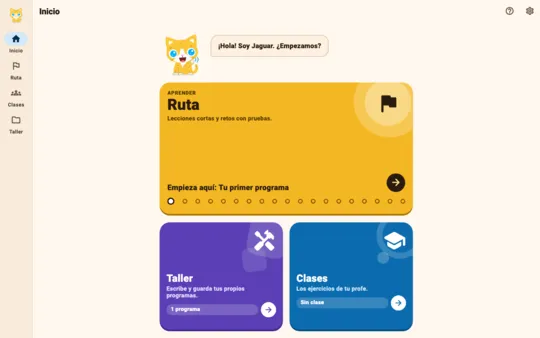
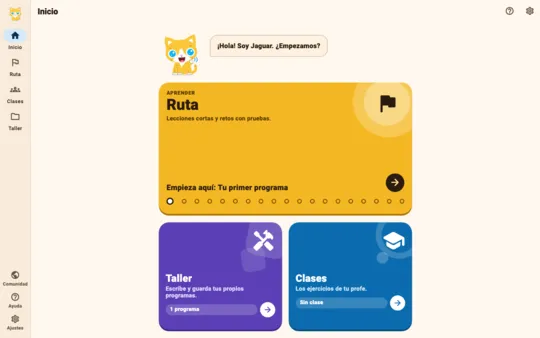
Movidas a la barra lateral las herramientas de Ajustes, Ayuda, Comunidad y cuenta, y quitado el menú hamburguesa

diff --git a/apps/jaguar/lib/src/workspace/rooms.dart b/apps/jaguar/lib/src/workspace/rooms.dart
@@ -132,13 +132,15 @@ class RoomsScaffold extends StatelessWidget {
               )
             : Text(room == Room.home ? 'Inicio' : _titles[room]!),
         actions: [
-          if (room == Room.home)
+          // On a wide screen the rail has these.
+          if (room == Room.home && !_isWide(context))
             IconButton(
               tooltip: 'Cómo funciona Jaguar Code',
               icon: const Icon(Icons.help_outline_rounded),
               onPressed: actions.onOpenGuide,
             ),
-          if (room == Room.home)
+          // On a wide screen the rail has these.
+          if (room == Room.home && !_isWide(context))
             IconButton(
               tooltip: 'Ajustes',
               icon: const Icon(Icons.settings_outlined),
@@ -1949,10 +1951,28 @@ class _RoomCard extends StatelessWidget {
 /// The rooms as a rail at the left, for a computer or a tablet: always there,
 /// like the activity bar of a code editor.
 class RoomsRail extends StatelessWidget {
-  const RoomsRail({super.key, required this.room, required this.onRoom});
+  const RoomsRail({
+    super.key,
+    required this.room,
+    required this.onRoom,
+    required this.onSettings,
+    required this.onGuide,
+    this.onCommunity,
+    this.onAccount,
+    this.accountLabel = 'Entrar',
+    this.signedIn = false,
+  });
 
   final Room room;
   final ValueChanged<Room> onRoom;
+
+  /// The tools that are not a place: at the bottom of the rail.
+  final VoidCallback onSettings;
+  final VoidCallback onGuide;
+  final VoidCallback? onCommunity;
+  final VoidCallback? onAccount;
+  final String accountLabel;
+  final bool signedIn;
 
   @override
   Widget build(BuildContext context) {
@@ -1962,10 +1982,32 @@ class RoomsRail extends StatelessWidget {
       onDestinationSelected: (index) => onRoom(Room.values[index]),
       labelType: NavigationRailLabelType.all,
       backgroundColor: scheme.surfaceContainer,
-      minWidth: 76,
+      minWidth: 72,
       leading: Padding(
-        padding: const EdgeInsets.only(top: 10, bottom: 14),
-        child: Image.asset('assets/images/mascota.png', width: 36, height: 36, excludeFromSemantics: true),
+        padding: const EdgeInsets.only(top: 8, bottom: 10),
+        child: Image.asset('assets/images/mascota.png', width: 34, height: 34, excludeFromSemantics: true),
+      ),
+      trailing: Expanded(
+        child: Align(
+          alignment: Alignment.bottomCenter,
+          child: Padding(
+            padding: const EdgeInsets.only(bottom: 10),
+            child: Column(
+              mainAxisSize: MainAxisSize.min,
+              children: [
+                if (onCommunity != null) _RailTool(icon: Icons.public, label: 'Comunidad', onTap: onCommunity!),
+                if (onAccount != null)
+                  _RailTool(
+                    icon: signedIn ? Icons.account_circle : Icons.login,
+                    label: accountLabel,
+                    onTap: onAccount!,
+                  ),
+                _RailTool(icon: Icons.help_outline_rounded, label: 'Ayuda', onTap: onGuide),
+                _RailTool(icon: Icons.settings_outlined, label: 'Ajustes', onTap: onSettings),
+              ],
+            ),
+          ),
+        ),
       ),
       destinations: const [
         NavigationRailDestination(
@@ -1985,6 +2027,44 @@ class RoomsRail extends StatelessWidget {
           label: Text('Taller'),
         ),
       ],
+    );
+  }
+}
+
+/// A tool at the bottom of the rail: an icon and a small name.
+class _RailTool extends StatelessWidget {
+  const _RailTool({required this.icon, required this.label, required this.onTap});
+
+  final IconData icon;
+  final String label;
+  final VoidCallback onTap;
+
+  @override
+  Widget build(BuildContext context) {
+    final scheme = Theme.of(context).colorScheme;
+    return Tooltip(
+      message: label,
+      child: InkWell(
+        borderRadius: BorderRadius.circular(12),
+        onTap: onTap,
+        child: SizedBox(
+          width: 68,
+          height: 52,
+          child: Column(
+            mainAxisAlignment: MainAxisAlignment.center,
+            children: [
+              Icon(icon, size: 22, color: scheme.onSurfaceVariant),
+              const SizedBox(height: 2),
+              Text(
+                label,
+                maxLines: 1,
+                overflow: TextOverflow.ellipsis,
+                style: TextStyle(fontSize: 11, fontWeight: FontWeight.w600, color: scheme.onSurfaceVariant),
+              ),
+            ],
+          ),
+        ),
+      ),
     );
   }
 }

diff --git a/apps/jaguar/test/app_test.dart b/apps/jaguar/test/app_test.dart
@@ -18,6 +18,8 @@ import 'package:jaguar/src/workspace/app_menus.dart';
 import 'package:jaguar/src/workspace/programs_sidebar.dart';
 import 'package:shared_preferences/shared_preferences.dart';
 
+import 'ayudas.dart';
+
 late SharedPreferences _prefs;
 
 Future<ProgramStore> _store([String? source, String? mode = 'full']) async {
@@ -262,8 +264,8 @@ void main() {
       JaguarApp(store: store, exercises: ExerciseStore(_prefs), settings: ViewSettings(_prefs), openEditor: true),
     );
 
-    await tester.tap(find.byTooltip('Abrir menú de navegación'));
-    await tester.pumpAndSettle();
+    // Comunidad is at the bottom of the side rail (no hamburger menu any more).
+    expect(find.byTooltip('Abrir menú de navegación'), findsNothing);
     await tester.tap(find.text('Comunidad'));
     await tester.pumpAndSettle();
     await tester.tap(find.text('Tabla de multiplicar'));
@@ -279,6 +281,28 @@ void main() {
     await tester.pumpAndSettle();
     expect(store.current.source, newProgramTemplate);
     expect(store.programs.where((p) => p.name == 'tabla'), hasLength(1));
+  });
+
+  testWidgets('la barra lateral lleva las herramientas: Ayuda, Ajustes y Comunidad', (tester) async {
+    tester.view.physicalSize = const Size(1400, 900);
+    tester.view.devicePixelRatio = 1;
+    addTearDown(tester.view.reset);
+    final store = await _store('Algoritmo hola\nFinAlgoritmo\n');
+    await tester.pumpWidget(
+      JaguarApp(store: store, exercises: ExerciseStore(_prefs), settings: ViewSettings(_prefs), openEditor: true),
+    );
+    await tester.pumpAndSettle();
+    final rail = find.byType(NavigationRail);
+    for (final name in ['Inicio', 'Ruta', 'Clases', 'Taller', 'Comunidad', 'Ayuda', 'Ajustes']) {
+      expect(
+        find.descendant(of: rail, matching: find.text(name)),
+        findsOneWidget,
+        reason: name,
+      );
+    }
+    await tester.tap(find.text('Ajustes'));
+    await tester.pumpAndSettle();
+    expect(find.text('Mostrar la vista Python'), findsOneWidget);
   });
 
   group('escritorio', () {
@@ -456,6 +480,7 @@ void main() {
       await tester.pumpAndSettle();
       await tester.tap(find.byType(BackButton));
       await tester.pumpAndSettle();
+      await irASala(tester, 'Clases');
       expect(find.text('Mis ejercicios'), findsOneWidget);
       debugDefaultTargetPlatformOverride = null;
     });
@@ -463,9 +488,8 @@ void main() {
     testWidgets('retos: abrir, ver pistas, resolver y quedar marcado', (tester) async {
       await pumpDesktop(tester, 'Algoritmo hola\nFinAlgoritmo\n');
       await tester.pumpAndSettle();
-      await tester.tap(find.text('Retos'));
-      await tester.pumpAndSettle();
-      expect(find.text('Llevas 0 de 12.', findRichText: true), findsNothing);
+      await irASala(tester, 'Ruta');
+      expect(find.text('0 de 2'), findsWidgets);
       await tester.tap(find.text('Saludo'));
       await tester.pumpAndSettle();
       expect(find.text('Reto 1 · Saludo'), findsOneWidget);
@@ -483,9 +507,9 @@ void main() {
       await tester.tap(find.text('Siguiente reto'));
       await tester.pumpAndSettle();
       expect(find.text('Reto 2 · Área del rectángulo'), findsOneWidget);
-      await tester.tap(find.text('Retos'));
-      await tester.pumpAndSettle();
-      expect(find.textContaining('Llevas 1 de 12'), findsOneWidget);
+      await irASala(tester, 'Ruta');
+      // The first unit shows its first challenge done.
+      expect(find.text('1 de 2'), findsWidgets);
       debugDefaultTargetPlatformOverride = null;
     });
 

diff --git a/apps/jaguar/lib/src/workspace/programs_sidebar.dart b/apps/jaguar/lib/src/workspace/programs_sidebar.dart
@@ -19,13 +19,6 @@ class ProgramsSidebar extends StatefulWidget {
     required this.onSaveFile,
     this.onMakeExercise,
     required this.cloud,
-    required this.onOpenCommunity,
-    required this.onOpenChallenges,
-    required this.onOpenClasses,
-    required this.onAccount,
-    this.onOpenTeacher,
-    required this.onHome,
-    required this.onSettings,
   });
 
   final ProgramStore store;
@@ -38,16 +31,6 @@ class ProgramsSidebar extends StatefulWidget {
   /// Teachers only.
   final ValueChanged<SavedProgram>? onMakeExercise;
   final Cloud? cloud;
-  final VoidCallback onOpenCommunity;
-  final VoidCallback onOpenChallenges;
-  final VoidCallback onOpenClasses;
-  final VoidCallback onAccount;
-
-  /// Teachers only.
-  final VoidCallback? onOpenTeacher;
-
-  final VoidCallback onHome;
-  final VoidCallback onSettings;
 
   @override
   State<ProgramsSidebar> createState() => _ProgramsSidebarState();
@@ -115,44 +98,6 @@ class _ProgramsSidebarState extends State<ProgramsSidebar> {
                     ],
                   ),
                 ),
-                const Divider(height: 1),
-                const SizedBox(height: 4),
-                _SidebarRow(icon: Icons.home_outlined, label: 'Inicio', onTap: widget.onHome),
-                if (widget.onOpenTeacher case final openTeacher?)
-                  _SidebarRow(
-                    icon: Icons.school_outlined,
-                    label: 'Mis ejercicios',
-                    tooltip: 'Ejercicios con pruebas que se generan solas',
-                    onTap: openTeacher,
-                  ),
-                _SidebarRow(
-                  icon: Icons.flag_outlined,
-                  label: 'Retos',
-                  tooltip: 'Ejercicios para practicar por tu cuenta, con pistas',
-                  onTap: widget.onOpenChallenges,
-                ),
-                _SidebarRow(
-                  icon: Icons.public,
-                  label: 'Comunidad',
-                  tooltip: 'Programas y ejercicios que comparten otras personas, y ejemplos',
-                  onTap: widget.onOpenCommunity,
-                ),
-                if (widget.cloud != null) ...[
-                  _SidebarRow(
-                    icon: Icons.groups_outlined,
-                    label: 'Mis clases',
-                    tooltip: 'Únete con el código de tu profesor, o crea una clase si eres profesor',
-                    onTap: widget.onOpenClasses,
-                  ),
-                  _SidebarRow(
-                    icon: widget.cloud!.signedIn ? Icons.account_circle : Icons.login,
-                    label: widget.cloud!.user?.alias ?? 'Entrar en línea',
-                    tooltip: widget.cloud!.signedIn ? 'Tu cuenta' : 'Para clases y comunidad; no es obligatorio',
-                    onTap: widget.onAccount,
-                  ),
-                ],
-                const Divider(height: 9),
-                _SidebarRow(icon: Icons.settings_outlined, label: 'Ajustes', onTap: widget.onSettings),
                 const SizedBox(height: 6),
               ],
             );

diff --git a/apps/jaguar/lib/src/workspace/workspace_screen.dart b/apps/jaguar/lib/src/workspace/workspace_screen.dart
@@ -1321,13 +1321,6 @@ class _WorkspaceScreenState extends State<WorkspaceScreen> with WidgetsBindingOb
       onSaveFile: _saveFile,
       onMakeExercise: _settings.teacher ? _exerciseFromProgram : null,
       cloud: widget.cloud,
-      onOpenCommunity: _openCommunity,
-      onOpenChallenges: _openChallenges,
-      onOpenClasses: _openClasses,
-      onAccount: _account,
-      onOpenTeacher: _settings.teacher ? _openTeacher : null,
-      onHome: _openHome,
-      onSettings: _openSettings,
     );
 
     return Scaffold(
@@ -1565,18 +1558,6 @@ class _WorkspaceScreenState extends State<WorkspaceScreen> with WidgetsBindingOb
     return 'Ruta · Nivel ${challenges[index].level} · Reto ${index + 1}';
   }
 
-  void _openHome() {
-    Navigator.push(
-      context,
-      MaterialPageRoute<void>(
-        builder: (context) => Scaffold(
-          appBar: AppBar(title: const Text('Jaguar Code')),
-          body: _startPanel(afterAction: () => Navigator.pop(context)),
-        ),
-      ),
-    );
-  }
-
   /// What the content area shows with no program open.
   Widget _startPanel({VoidCallback? afterAction}) {
     VoidCallback wrap(VoidCallback action) => () {
@@ -1622,25 +1603,6 @@ class _WorkspaceScreenState extends State<WorkspaceScreen> with WidgetsBindingOb
       ),
     );
   }
-
-  Widget _drawer() => ProgramsDrawer(
-    store: _store,
-    cloud: widget.cloud,
-    settings: _settings,
-    onOpenCommunity: _openCommunity,
-    onOpenChallenges: _openChallenges,
-    onOpenClasses: _openClasses,
-    onAccount: _account,
-    onGuide: _showGuide,
-    onAbout: _showAbout,
-    onHome: _openHome,
-    onSettings: _openSettings,
-    exercises: widget.exercises,
-    onSelect: _load,
-    onNew: _newProgram,
-    onScan: canScanQr && !_settings.isBasic ? _scanQr : null,
-    onOpenTeacher: _settings.teacher ? _openTeacher : null,
-  );
 
   Future<void> _exportAll() async {
     _saveNow();
@@ -1731,7 +1693,16 @@ class _WorkspaceScreenState extends State<WorkspaceScreen> with WidgetsBindingOb
     final inner = _room == Room.workshop ? (desktop ? _buildDesktop(menus) : _buildTouch()) : _buildRoomsWide();
     return Row(
       children: [
-        RoomsRail(room: _room, onRoom: _goRoom),
+        RoomsRail(
+          room: _room,
+          onRoom: _goRoom,
+          onSettings: _openSettings,
+          onGuide: _showGuide,
+          onCommunity: _openCommunity,
+          onAccount: widget.cloud == null ? null : _account,
+          accountLabel: widget.cloud?.user?.alias ?? 'Entrar',
+          signedIn: widget.cloud?.signedIn ?? false,
+        ),
         const VerticalDivider(width: 1),
         Expanded(
           child: AnimatedSwitcher(
@@ -1979,7 +1950,6 @@ class _WorkspaceScreenState extends State<WorkspaceScreen> with WidgetsBindingOb
                   ),
                 ],
         ),
-        drawer: wide ? _drawer() : null,
         body: empty
             ? _startPanel()
             : wide
